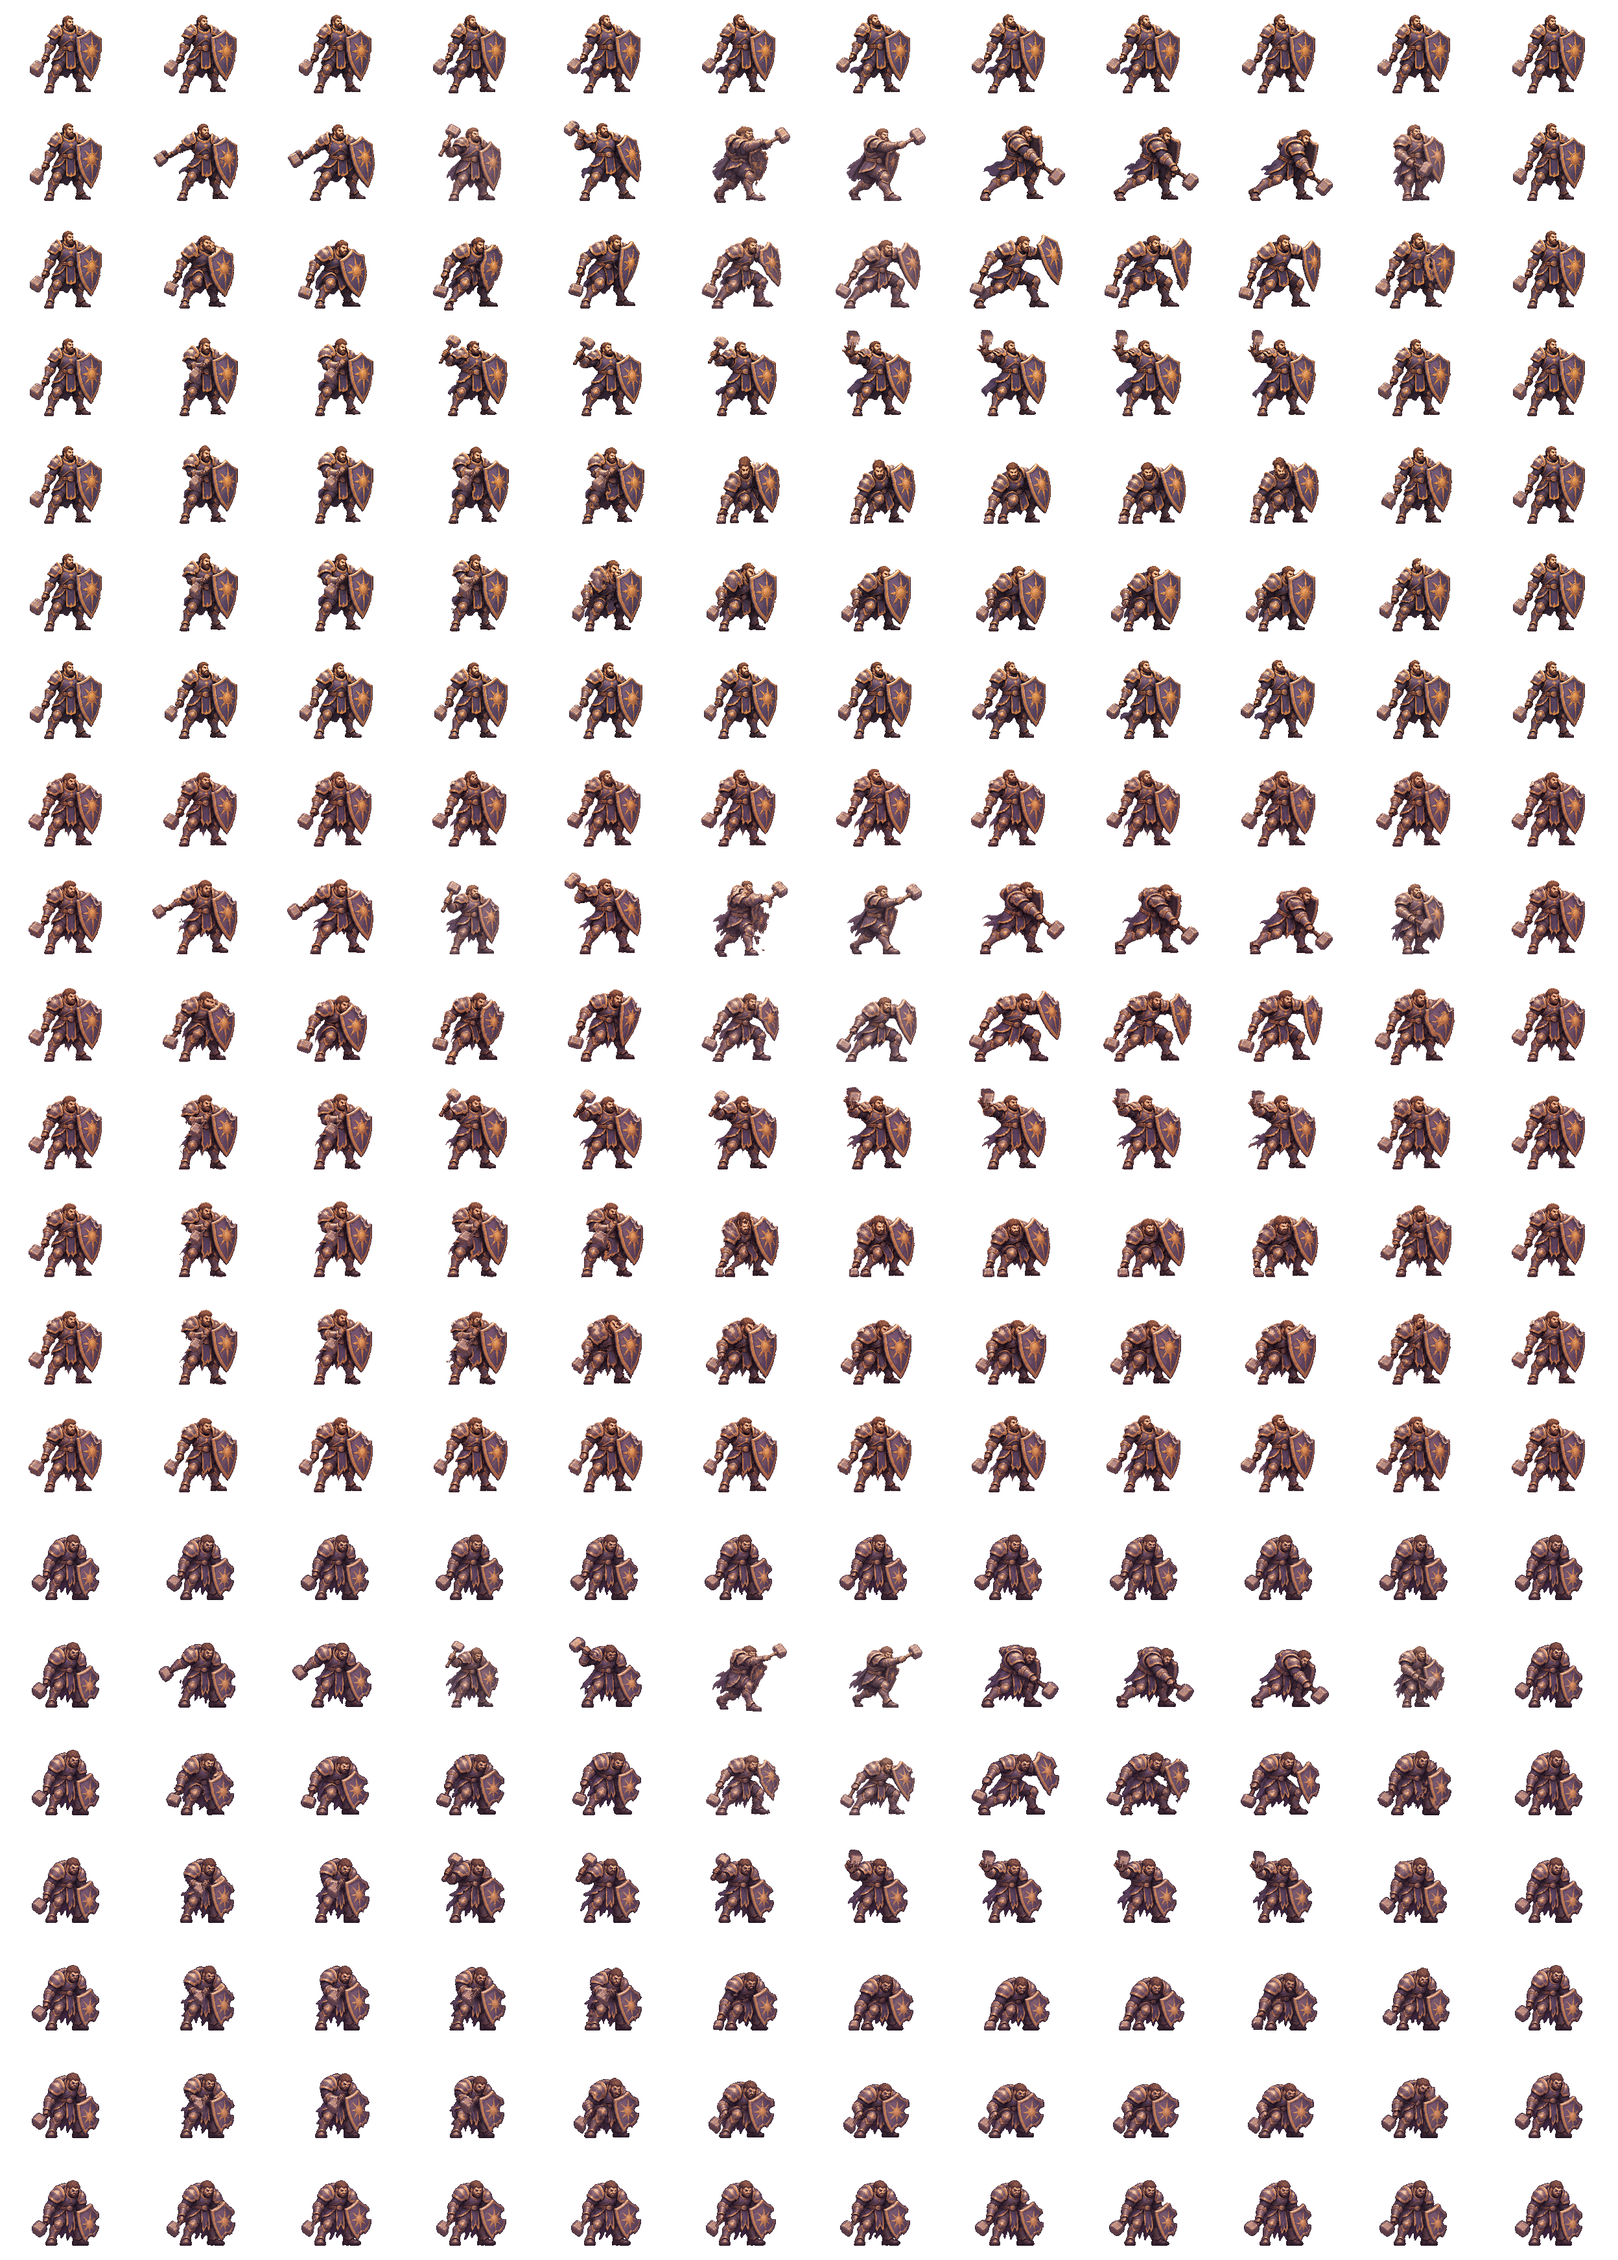
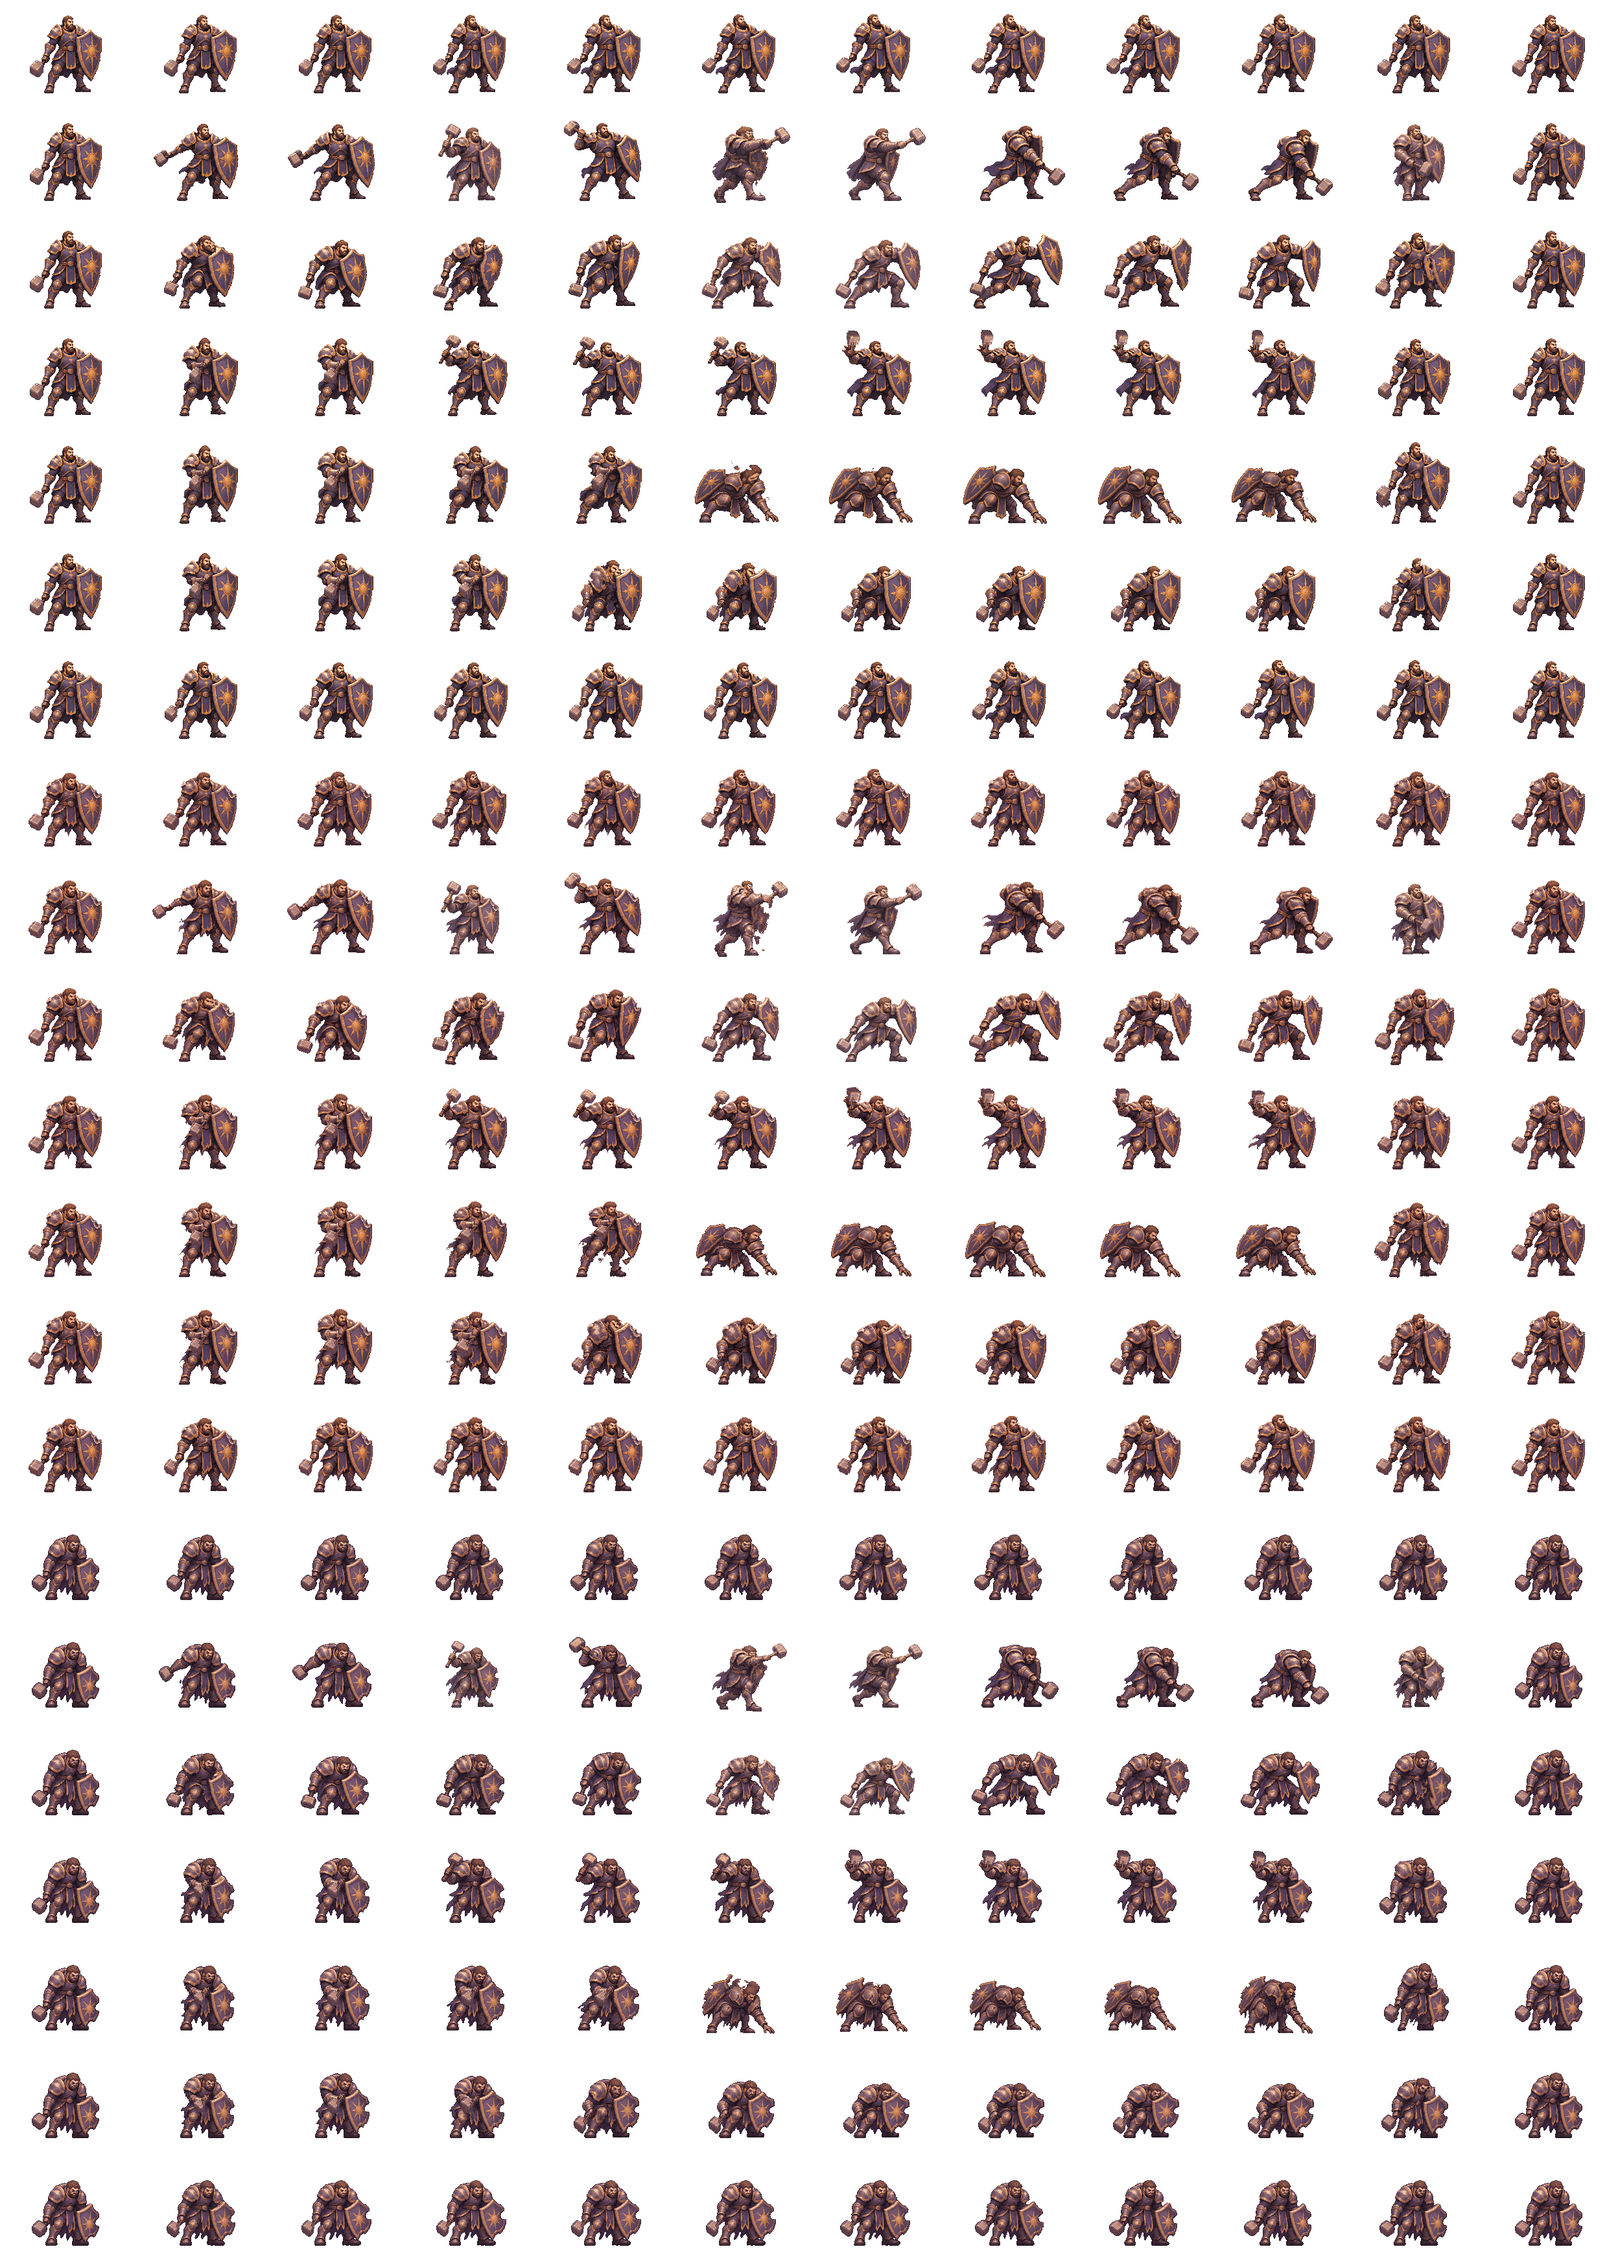
Paint a belt-to-mouth gesture for each founder and turn the Guardian toward the cache

diff --git a/scripts/build-fighter-skins.py b/scripts/build-fighter-skins.py
@@ -140,6 +140,12 @@ def ambient_key(keys, role, tier):
 def clip(solver, role, tier, name):
     if name == 'ambient':
         script = ((0, 0), (2, 1), (5, 20), (7, 20), (10, 1), (11, 0))
+    elif name == 'consume':
+        # Draw from the belt, bring the grip to the lips, swallow, and lower it.
+        script = ((0, 0), (2, 21), (6, 22), (8, 22), (10, 21), (11, 0))
+    elif name == 'utility' and role == 'guardian':
+        # The tower shield moves aside to free the forward hand for the cache.
+        script = ((0, 0), (2, 2), (7, 23), (8, 23), (11, 0))
     else:
         script = TRACK_KEYS[name]
     for exposure in range(MOTIONS['columns']):
@@ -168,6 +174,10 @@ def fallen(frame):
 def build(role):
     master = Image.open(MASTERS / f'{role}-keys.webp').convert('RGBA')
     breakdowns = Image.open(MASTERS / f'{role}-breakdowns.webp').convert('RGBA')
+    drink = Image.open(MASTERS / f'{role}-consume-keys.webp').convert('RGBA')
+    reach = Image.open(MASTERS / 'guardian-reach.webp').convert('RGBA') if role == 'guardian' else None
+    if drink.size != (CELL[0] * 2, CELL[1] * len(TIERS)):
+        raise ValueError(f'{role}: expected a belt grip and a raised grip per health band')
     if breakdowns.size != (CELL[0] * 4, CELL[1] * 3):
         raise ValueError(f'{role}: expected four extra breakdowns for each health band')
     if master.size != (CELL[0] * 4, CELL[1] * 12):
@@ -175,12 +185,19 @@ def build(role):
     standing = Image.new('RGBA', (CELL[0] * 4, CELL[1] * 9))
     moving = Image.new('RGBA', (CELL[0] * MOTIONS['columns'], CELL[1] * len(MOTIONS['rows']) * len(TIERS)))
     ambient = Image.new('RGBA', (CELL[0] * 12, CELL[1] * 3))
+    consume = Image.new('RGBA', (CELL[0] * KIT['layers']['consume']['columns'], CELL[1] * len(TIERS)))
     for tier in range(3):
         keys = drawings(master, tier)
         for column in range(4):
             x, y = column * CELL[0], tier * CELL[1]
             keys.append(breakdowns.crop((x, y, x + CELL[0], y + CELL[1])))
         keys.append(ambient_key(keys, role, tier))
+        y = tier * CELL[1]
+        for column in range(2):
+            x = column * CELL[0]
+            keys.append(drink.crop((x, y, x + CELL[0], y + CELL[1])))
+        if reach:
+            keys.append(reach.crop((0, y, CELL[0], y + CELL[1])))
         solver = Inbetweens(keys)
         stills = [keys[0], keys[1], keys[2], solver.between(0, 1, .55),
                   keys[5], keys[6], keys[12], keys[13], keys[14], keys[15], fallen(keys[15]), keys[9]]
@@ -192,11 +209,14 @@ def build(role):
                 moving.paste(cel, (CELL[0] * i, y))
         for i, cel in enumerate(clip(solver, role, tier, 'ambient')):
             ambient.paste(cel, (CELL[0] * i, CELL[1] * tier))
+        for i, cel in enumerate(clip(solver, role, tier, 'consume')):
+            consume.paste(cel, (CELL[0] * i, CELL[1] * tier))
         if tier == 0:
             keys[0].crop(keys[0].getbbox()).save(ASSETS / f'{role}.png', optimize=True)
     standing.save(ASSETS / 'skins' / f'{role}-founder.png', optimize=True)
     moving.save(ASSETS / 'skins' / f'{role}-motions.webp', lossless=True, method=5)
     ambient.save(ASSETS / 'skins' / f'{role}-ambient.webp', lossless=True, method=5)
+    consume.save(ASSETS / 'skins' / f'{role}-consume.webp', lossless=True, method=5)
     print(f'{role}: 60 painted keys, {len(TRACK_KEYS) * 36} combat and idle cels')
 
 
